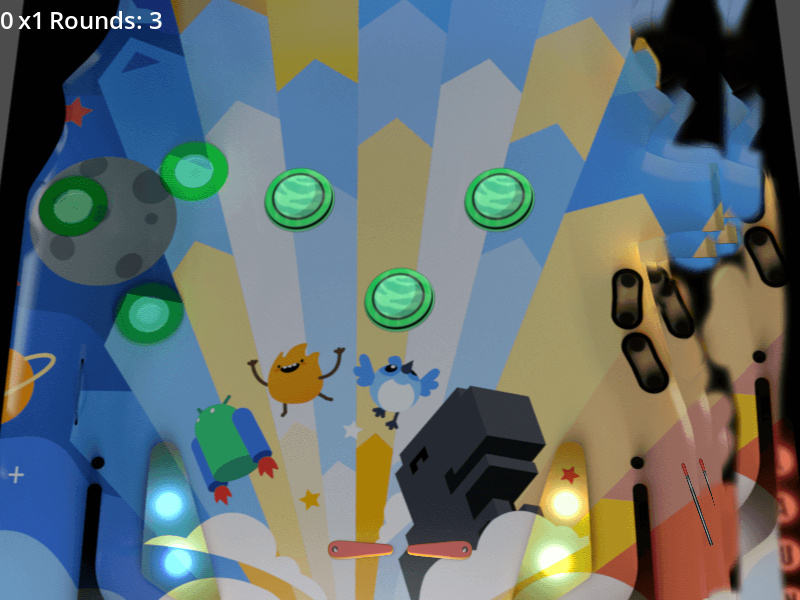
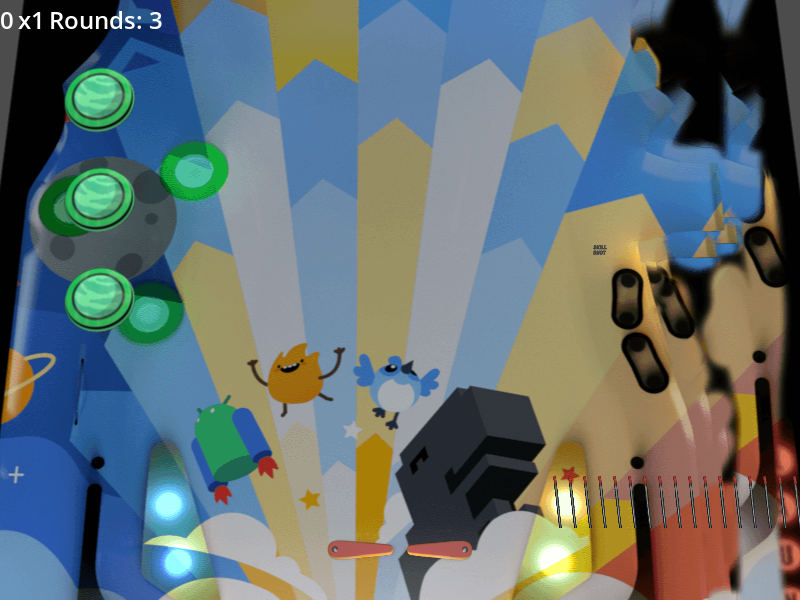
Implement 0.6 Skill Shot feature

diff --git a/test/TEST_PLAN_0.6.md b/test/TEST_PLAN_0.6.md
@@ -1,0 +1,78 @@
+# Pinball-Experience Test Plan 0.6 - Skill Shot
+
+**Version:** 0.6  
+**Date:** 2026-02-28  
+**Feature:** Skill Shot  
+**Project:** pinball-experience
+
+---
+
+## 功能描述
+
+- **Skill Shot:** 目标区域在发射后 2-3 秒内 "active"
+- 如果球在 active 期间击中 → 奖励 1,000,000 分
+- 之后 inactive，直到下次发射
+
+---
+
+## 四层测试体系
+
+| 层级 | 测试类型 | 工具 |
+|------|----------|------|
+| 第一层 | 单元测试 | GUT/GdUnit4 |
+| 第二层 | 集成测试 | 内置脚本 |
+| 第三层 | 截图测试 | GDSnap |
+| 第四层 | 性能测试 | Profiler |
+
+---
+
+## 测试用例
+
+### 第一层: 单元测试
+
+| ID | 测试用例 | 预期结果 |
+|----|----------|----------|
+| 0.6.1 | SkillShot 节点存在 | 场景中有 SkillShot 节点 |
+| 0.6.2 | SkillShot 位置正确 | 在发射路径上 |
+| 0.6.3 | 积分常量正确 | SKILL_SHOT_POINTS = 1000000 |
+
+### 第二层: 集成测试
+
+| ID | 测试用例 | 预期结果 |
+|----|----------|----------|
+| 0.6.4 | 发射后激活 | 球发射后 skill_shot_active = true |
+| 0.6.5 | 窗口期内击中 | 窗口期内击中 +1M 分 |
+| 0.6.6 | 窗口期后无效 | 窗口期后击中不加分 |
+| 0.6.7 | 窗口期超时 | 2-3秒后自动失效 |
+
+### 第三层: 截图测试
+
+| ID | 测试用例 | 预期结果 |
+|----|----------|----------|
+| 0.6.8 | 技能 shot 激活截图 | 显示激活状态 |
+| 0.6.9 | 击中得分截图 | 显示 +1M 弹出 |
+
+---
+
+## 实现状态
+
+| ID | 状态 | 说明 |
+|----|------|------|
+| 0.6.1 | ⚠ 待实现 | 需创建 SkillShot 节点 |
+| 0.6.2 | ⚠ 待实现 | 需创建 SkillShot 节点 |
+| 0.6.3 | ⚠ 待实现 | 需实现 |
+| 0.6.4 | ⚠ 待实现 | 需实现 |
+| 0.6.5 | ⚠ 待实现 | 需实现 |
+| 0.6.6 | ⚠ 待实现 | 需实现 |
+| 0.6.7 | ⚠ 待实现 | 需实现 |
+| 0.6.8 | ⚠ 待实现 | 需实现 |
+| 0.6.9 | ⚠ 待实现 | 需实现 |
+
+---
+
+## 运行测试
+
+```bash
+# 运行 0.6 测试
+DISPLAY=:99 godot --headless --path . -s test/test_skill_shot.gd
+```
